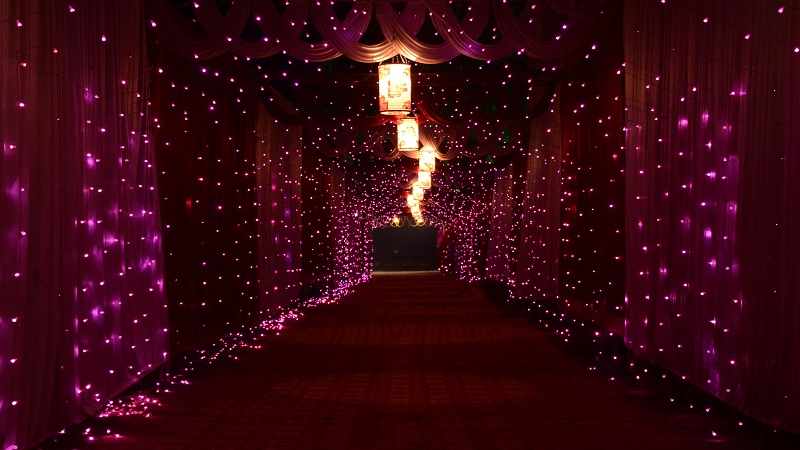
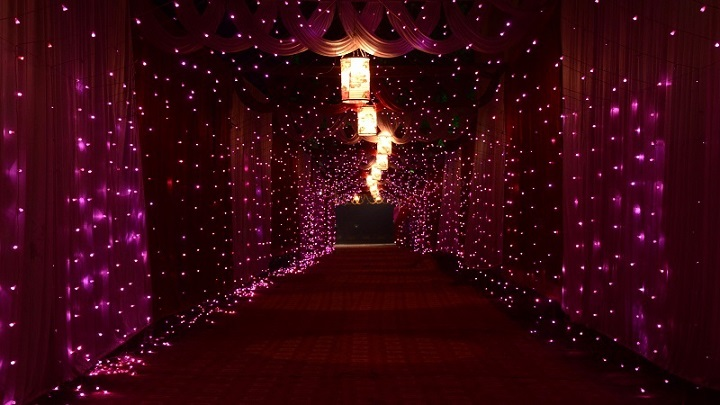
[OS]: Done changes on Home page

diff --git a/index.html b/index.html
@@ -119,7 +119,7 @@
 		<div id="fh5co-about" class="fh5co-section" >
 			<div class="container">
 				<div class="row">
-					<div class="col-md-6 col-md-pull-2 img-wrap animate-box" data-animate-effect="fadeInLeft">
+					<div class="col-md-6 col-md-pull-1 img-wrap animate-box" data-animate-effect="fadeInLeft">
 						<img src="images/WeddingDeco.jpg">
 					</div>
 					<div class="col-md-5 col-md-push-1 animate-box">
@@ -141,8 +141,8 @@
 		<div id="fh5co-about" class="fh5co-section">
 			<div class="container">
 				<div class="row">
-					<div class="col-md-6 col-md-pull-2 img-wrap animate-box" data-animate-effect="fadeInRight">
-						<img src="images/cateringImage.jpg" alt="Free Restaurant Bootstrap Website Template by FreeHTML5.co">
+					<div class="col-md-6 col-md-pull-1 img-wrap animate-box" data-animate-effect="fadeInRight">
+						<img src="images/Catering.jpg" alt="Free Restaurant Bootstrap Website Template by FreeHTML5.co">
 					</div>
 					<div class="col-md-5 col-md-push-1 animate-box">
 						<div class="section-heading">
@@ -163,8 +163,8 @@
 		<div id="fh5co-about" class="fh5co-section">
 			<div class="container">
 				<div class="row">
-					<div class="col-md-6 col-md-pull-2 img-wrap animate-box" data-animate-effect="fadeInRight">
-						<img src="images/Decoration.jpg" alt="Free Restaurant Bootstrap Website Template by FreeHTML5.co">
+					<div class="col-md-6 col-md-pull-1 img-wrap animate-box" data-animate-effect="fadeInRight">
+						<img src="images/otherimg.jpg" alt="Free Restaurant Bootstrap Website Template by FreeHTML5.co">
 					</div>
 					<div class="col-md-5 col-md-push-1 animate-box">
 						<div class="section-heading">
